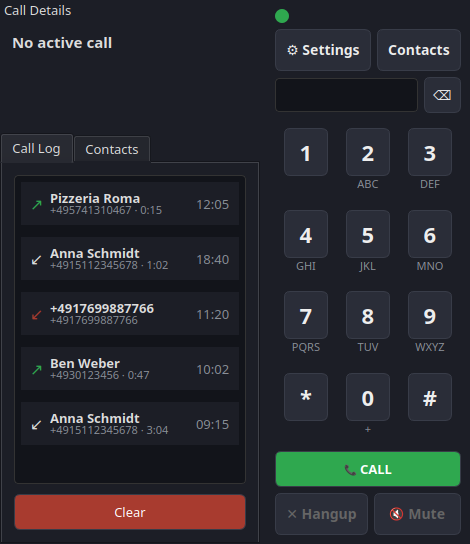
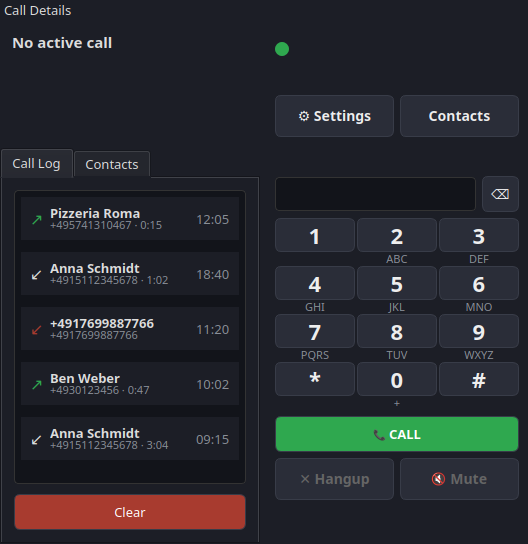
chore: release voice2fritz v0.4.0

diff --git a/src/voice2fritz/__init__.py b/src/voice2fritz/__init__.py
@@ -1,1 +1,1 @@
-__version__ = "0.3.0"
+__version__ = "0.4.0"

diff --git a/CHANGELOG.md b/CHANGELOG.md
@@ -4,6 +4,20 @@ All notable changes to this project are documented in this file.
 
 ## [Unreleased]
 
+## [0.4.0]
+
+### Changed
+- Dialpad buttons made more rectangular with tighter, more phone-like
+  spacing: near-zero gaps between digits, a small 2px horizontal gap for
+  separation, T9 letters sitting flush under their button instead of
+  floating with a gap below it.
+
+### Fixed
+- Dialpad grid cells were absorbing leftover vertical space in the window
+  and stretching, which pushed the vertically-centered T9 letters away
+  from their button even with zero layout spacing. Cells are now pinned
+  to a fixed size so they can't be stretched.
+
 ## [0.3.0]
 
 ### Added
